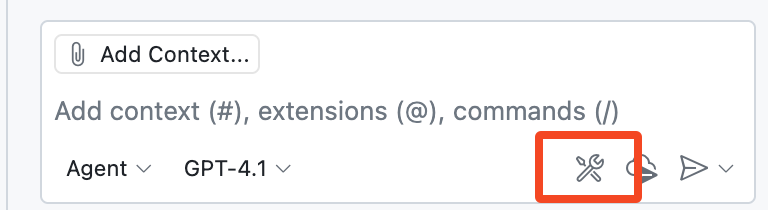
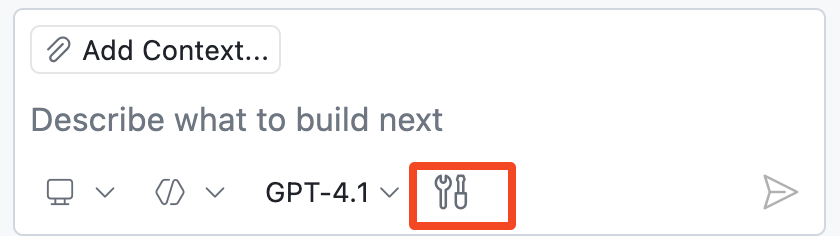
refactor: update instructions to use Agent mode and remove Edit mode references

Changed region(s): [[0.0, 0.0286, 1.0, 1.0], [0.0625, 0.0857, 1.0, 0.1143], [0.0625, 0.3429, 0.3438, 0.3714]]

diff --git a/.github/steps/3-step.md b/.github/steps/3-step.md
@@ -36,7 +36,7 @@ Our website lists activities, but it's keeping the guest list secret 🤫
 
 Let's use Copilot to change the website to display signed up students under each activity!
 
-1. At the bottom of Copilot Chat window, use the dropdown to switch to **Edit** mode.
+1. At the bottom of Copilot Chat window, use the dropdown to switch to **Agent** mode.
 
    <img width="350" alt="image" src="../images/edit-mode-dropdown.png" />
 
@@ -69,7 +69,9 @@ Let's use Copilot to change the website to display signed up students under each
       <img width="900" alt="buttons to keep or discard changes" src="../images/review-changes-buttons.png" />
 
 
-1. Before we simply accept the changes, please check our website again and verify everything is updated as expected. Here is an example of an updated activity card. You may need to restart the app or refresh the page.
+1. Before we simply accept the changes, please check our website again and verify everything is updated as expected. 
+   
+   Here is an example of an updated activity card. You may need to restart the app or refresh the page.
 
    <img width="350" alt="Activity card with participant info" src="../images/activity-card-with-participants.png" />
 
@@ -95,7 +97,7 @@ Let's experiment with some more open-ended requests that will add more functiona
 
 If you don't get the desired results, you can try other models or provided followup feedback to refine the results.
 
-1. Open the **Copilot** chat panel and use the dropdown menu to switch to **Agent** mode.
+1. Make sure your Copilot is still in **Agent** mode.
 
    <img width="250" alt="agent mode" src="../images/agent-mode-dropdown.png" />
 
@@ -121,6 +123,8 @@ If you don't get the desired results, you can try other models or provided follo
 
 1. Ask Copilot to fix a registration bug.
 
+   > 💡 **Tip:** We recommend testing the registration flow yourself so you can clearly see the before/after changes behavior.
+
    > ![Static Badge](https://img.shields.io/badge/-Prompt-text?style=social&logo=github%20copilot)
    >
    > ```prompt
@@ -128,25 +132,7 @@ If you don't get the desired results, you can try other models or provided follo
    > When a participant is registered, the page must be refreshed to see the change on the activity.
    > ```
 
-1. When Copilot is finished, inspect the results. If you like the results, press the **Keep** button. If not, try providing Copilot some feedback.
+1. When Copilot is finished, inspect the results and validate the registration flow on the website.
 
-### :keyboard: Activity: Use Agent mode to get test coverage 🧑🚀
+   If you like the results, press the **Keep** button. If not, try providing Copilot some feedback.
 
-Your backend is now feature‑rich—but still has zero test coverage. Use Copilot **Agent Mode** to add test dependencies, scaffold starter tests and run them.
-
-1. Ask Copilot in **Agent mode** to set up and run tests for your backend.
-
-   > ![Static Badge](https://img.shields.io/badge/-Prompt-placeholder?style=social&logo=github%20copilot)
-   >
-   > ```prompt
-   > Add fastapi tests using pytest in a new tests directory and run them.
-   > Make sure to add any new dependencies to requirements.txt
-   > ```
-
-1. As Copilot works on your prompt, different tools might need your approval.
-
-   **🎯 Goal: Get all tests passing (green) — aim for a clean run! ✅**
-
-   > 🪧 **Note:** Copilot may one-shot this with the initial prompt or need more guidance from you.
-
-1. Once the tests are passing - **commit** and **push** all changes to your `accelerate-with-copilot` branch to progress to the last step! Almost done!
